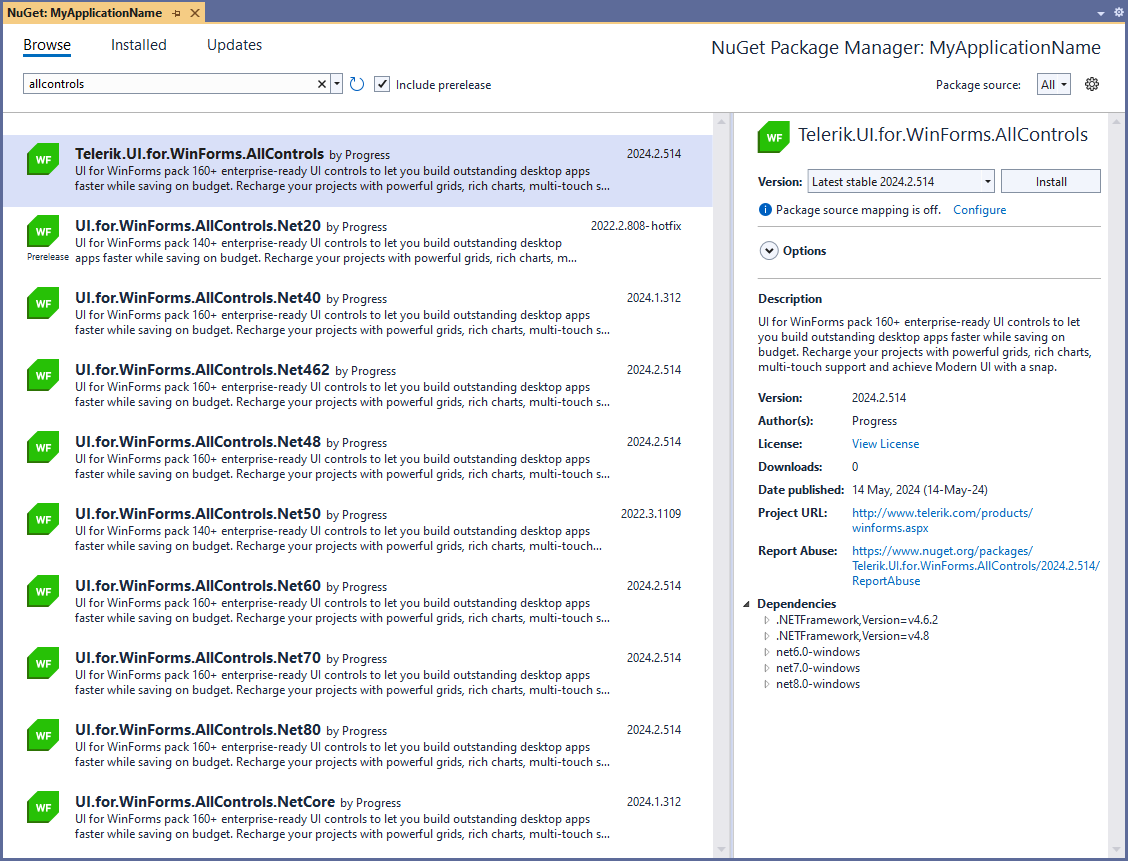
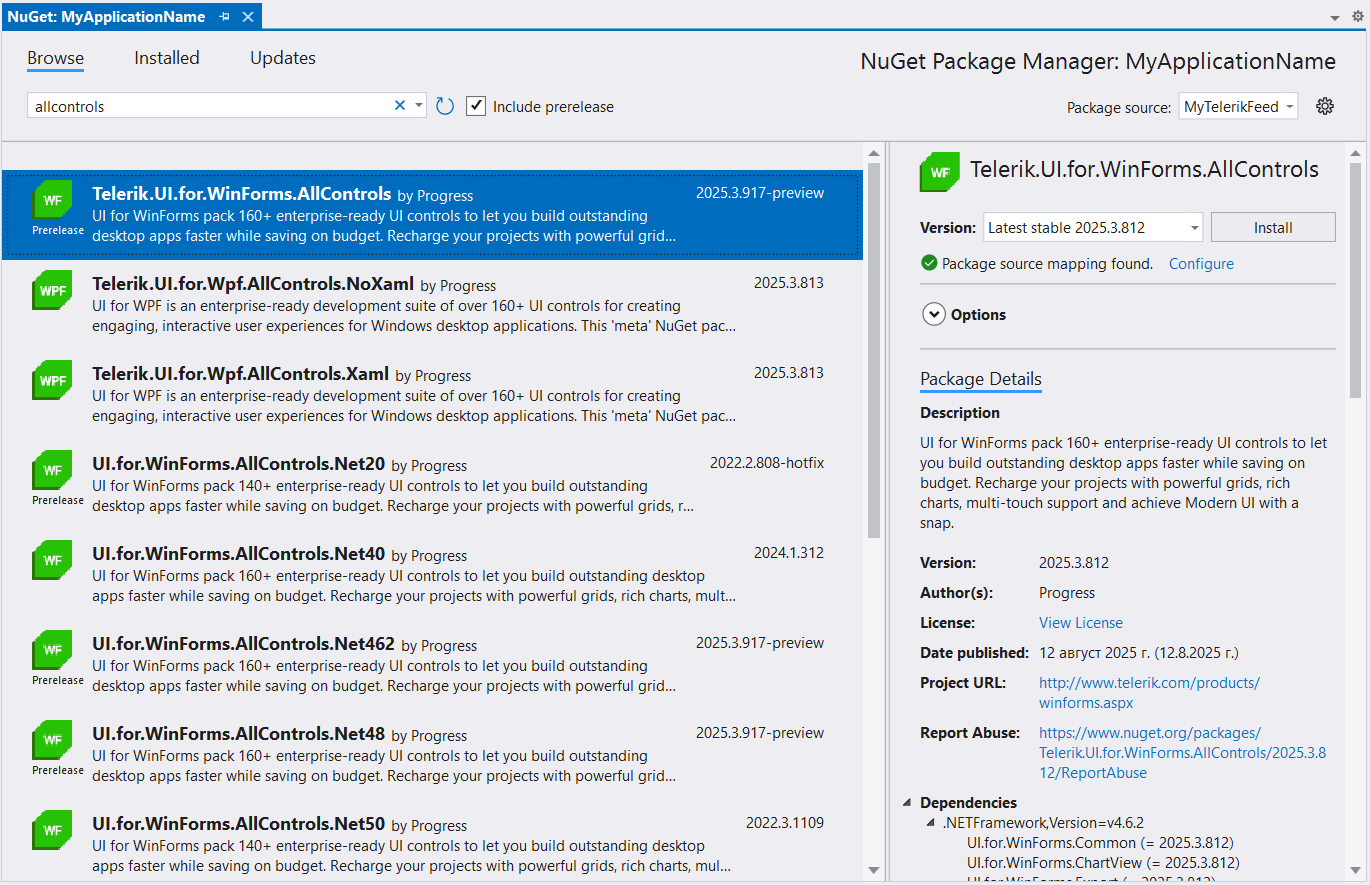
Available NuGets: Minor changes

diff --git a/visual-studio-integration/available-nugets.md b/visual-studio-integration/available-nugets.md
@@ -16,9 +16,12 @@ Telerik UI for WinForms comes with several different packages that can be [insta
 
 The Telerik assemblies are built against [different versions]({%slug assemblies-version%}) of .NET starting from .NET 4 to the latest official .NET. You should pick up this version of the NuGet package to install in your project that corresponds to the Target Framework that you are using in your project and that is available on your computer. 
 
->important .NET 2.0 is last supported in the NuGet package version 2022.2.622.          
-> .NET 4.0 is last supported in the NuGet package version 2024.1.312.        
-> .NetCore is last supported in the NuGet package version 2024.1.312.    
+>important .NET 2.0 is last supported in the NuGet package version 2022.2.622.   
+> .NET 5 is last supported in the NuGet package version 2022.3.1109.
+> .NET 4.0 is last supported in the NuGet package version 2024.1.312.    
+> .NetCore is last supported in the NuGet package version 2024.1.312.
+> .NET 7 is last supported in the NuGet package version 2024.3.924.
+> .NET 6 is last supported in the NuGet package version 2025.1.211.
 
 ## Full Packages
 
@@ -26,9 +29,8 @@ The Telerik assemblies are built against [different versions]({%slug assemblies-
 
 * `UI.for.WinForms.AllControls.Net462`
 * `UI.for.WinForms.AllControls.Net48`
-* `UI.for.WinForms.AllControls.Net60`
-* `UI.for.WinForms.AllControls.Net70`
 * `UI.for.WinForms.AllControls.Net80`
+* `UI.for.WinForms.AllControls.Net90`
 * `UI.for.WinForms.AllControls` : Contains all available [Telerik .NET Distributions]({%slug winforms/installation-deployment-and-distribution/distributions%}) 
 
 Each of these packages contains all Telerik UI for WinForms assemblies for the corresponding .NET Framework/ .NET Core/ .NET version. 
